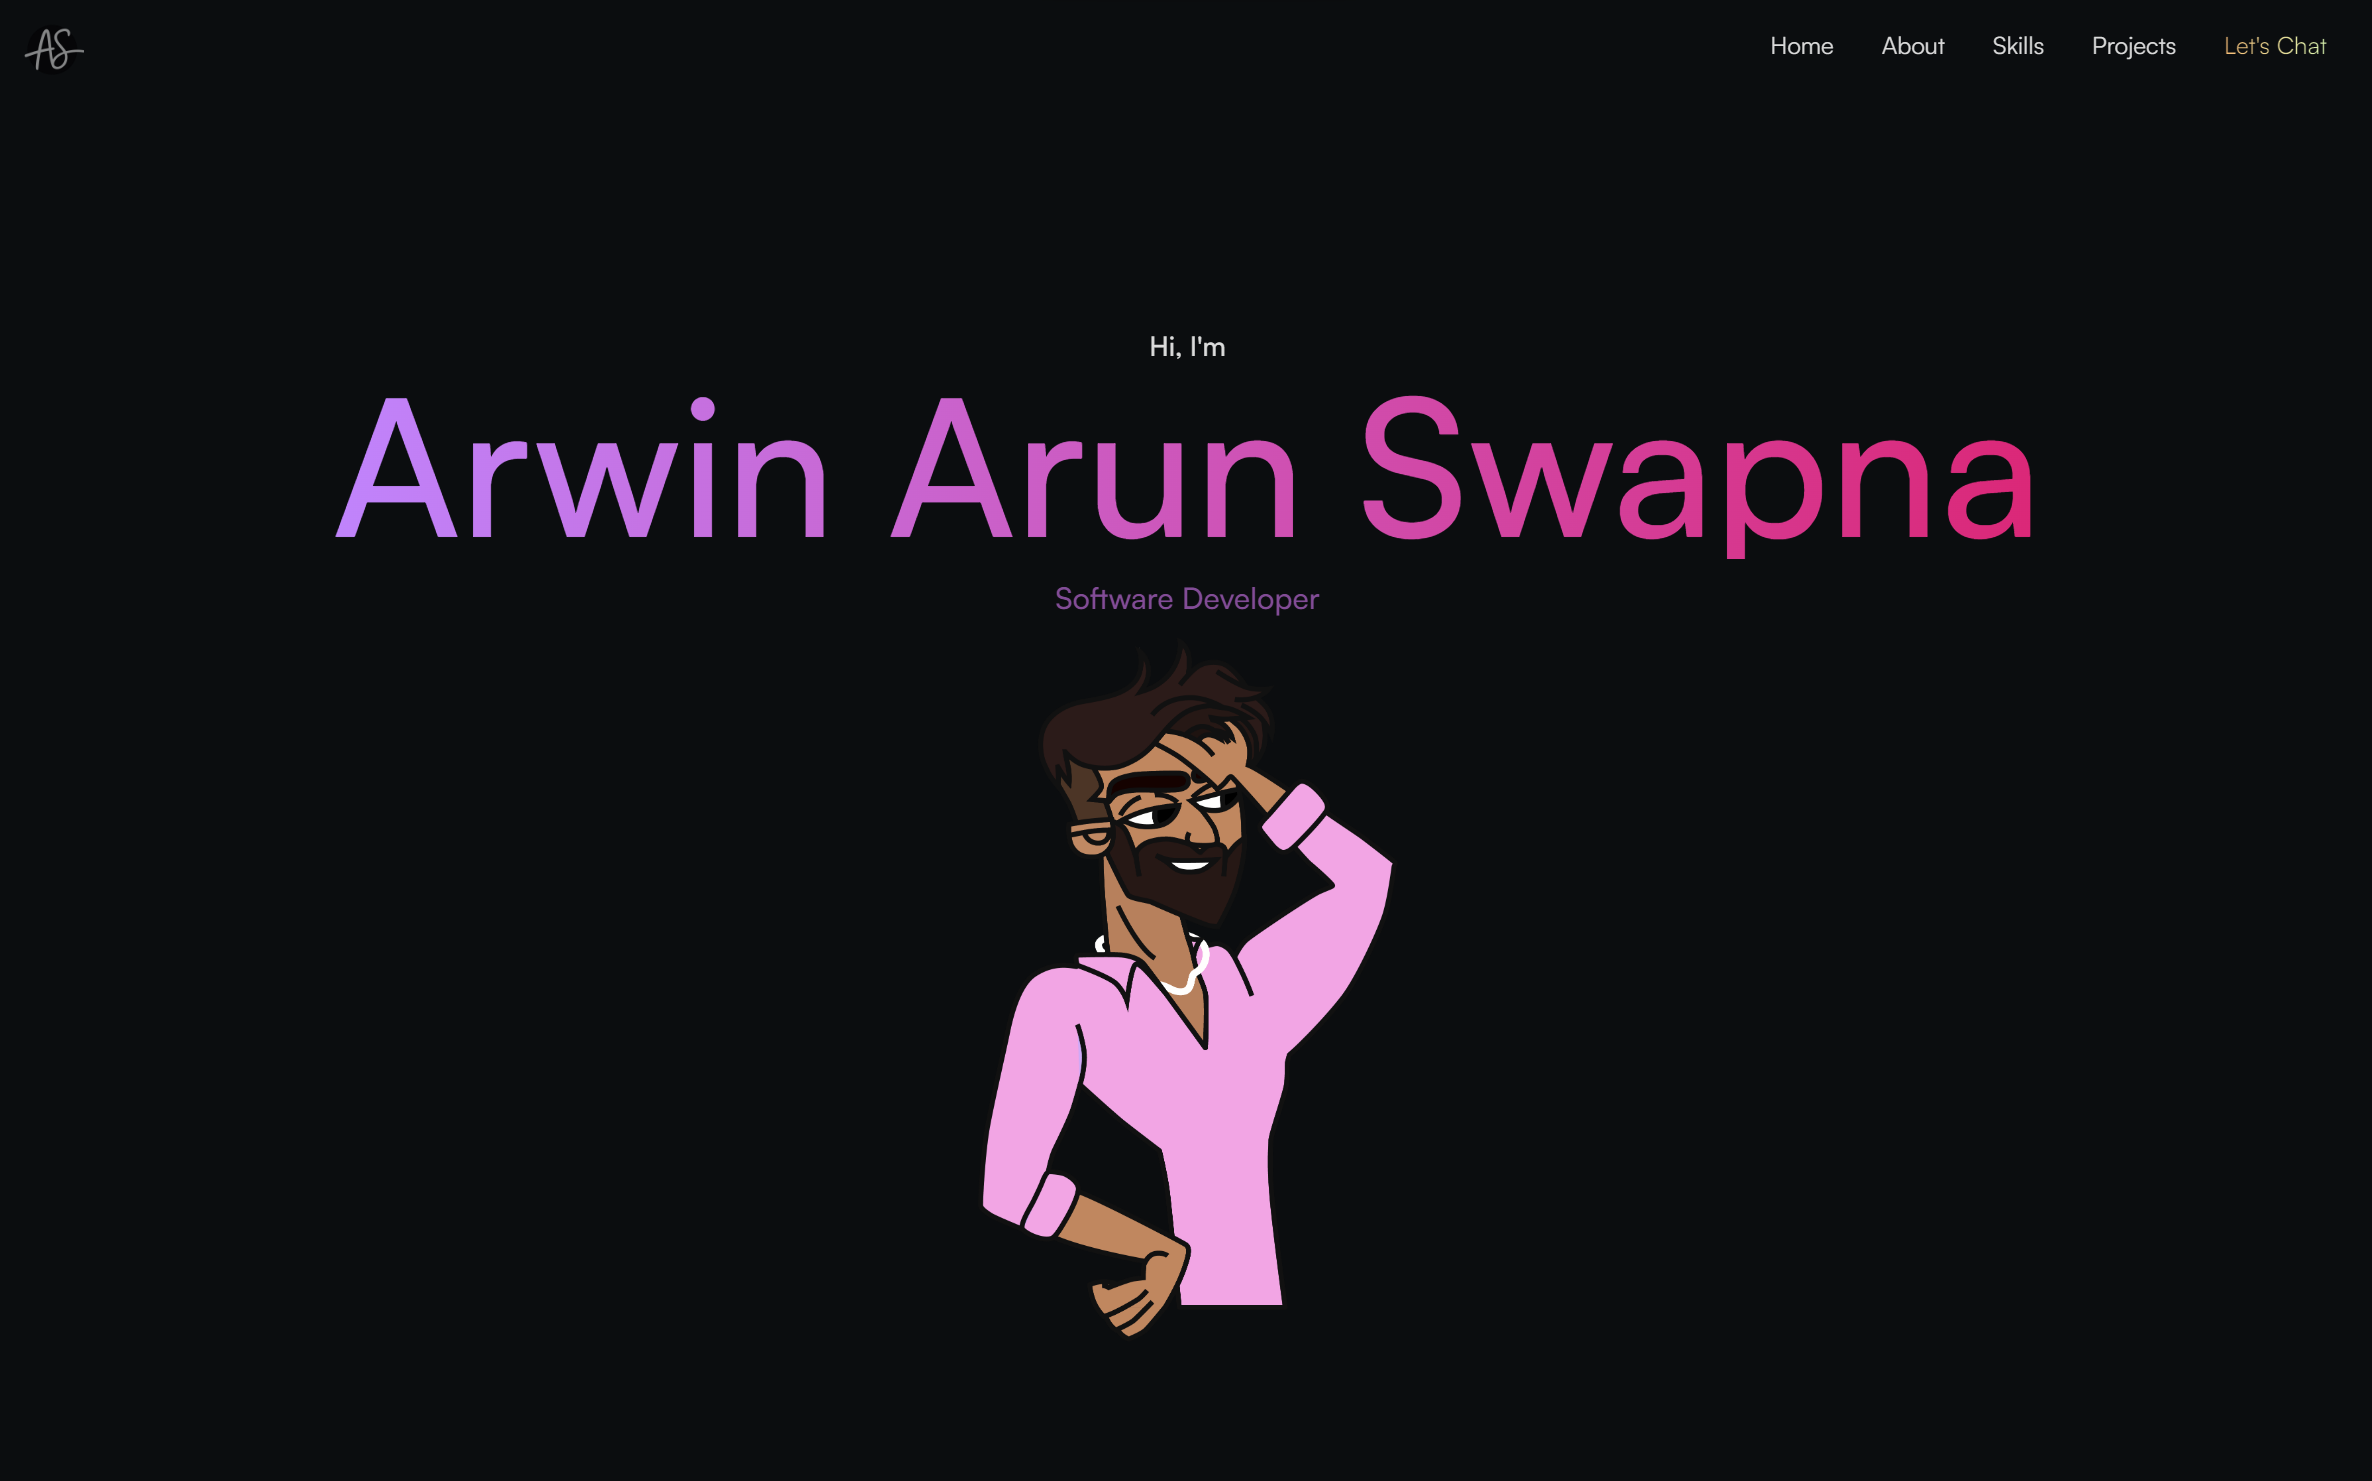
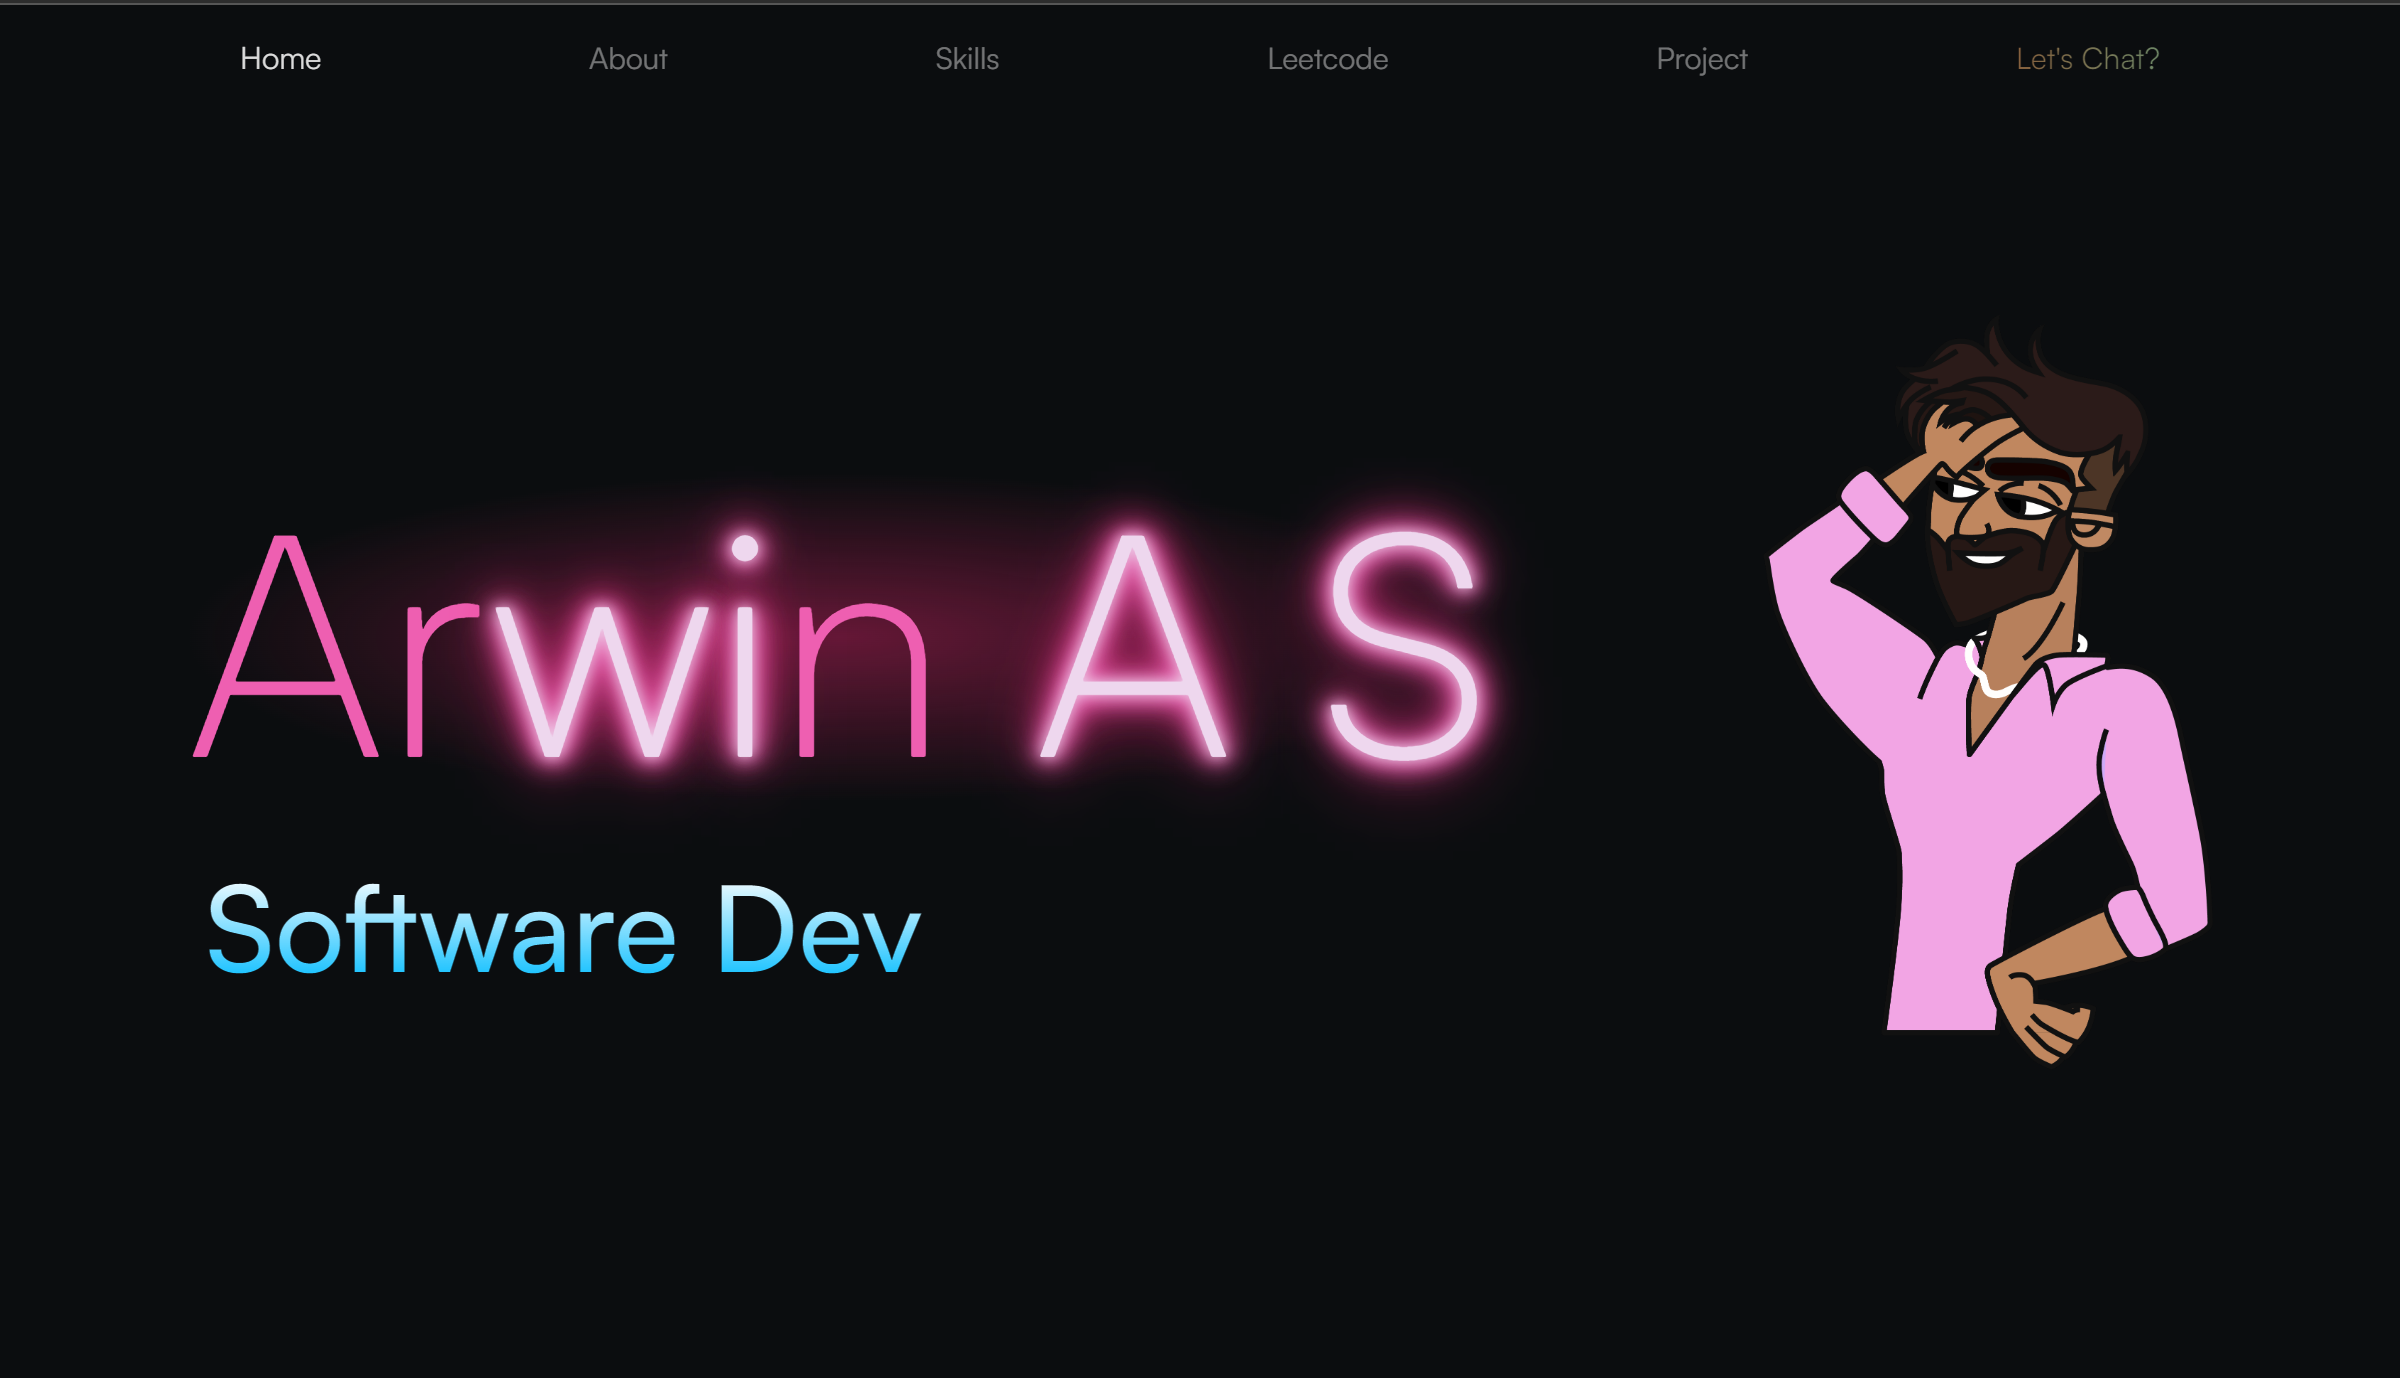
template

Changed region(s): [[0.0624, 0.2496, 0.9359, 0.9049], [0.0, 0.0, 1.0, 0.0624]]

diff --git a/src/components/home/Home.jsx b/src/components/home/Home.jsx
@@ -9,11 +9,11 @@ const Home = () => {
       <div className='w-full flex justify-center'>
         <div className='w-[1350px] flex flex-col md:flex-row justify-center md:justify-between items-center'>
           <div className=''>
-            <h1 className='name w-fit text-[4.4rem] md:text-[12rem] sign'><span className='fast-flicker'>Ar</span>w<span className='flicker'>in</span> AS</h1>
+            <h1 className='name w-fit text-[5rem] md:text-[13rem] sign'><span className='fast-flicker'>Ar</span>wi<span className='flicker'>n</span> A S</h1>
             <p className='text-[2rem] md:text-[5rem] md:p-3 w-fit mx-auto md:mx-0'>Software Dev</p>
           </div>
 
-          <div className='md:p-0 p-16'>
+          <div className='md:p-0 py-2'>
             <img src={ME} width='300px' alt="" />
           </div>
         </div>

diff --git a/src/components/navigation/Navigation.jsx b/src/components/navigation/Navigation.jsx
@@ -38,7 +38,7 @@ const Navigation = () => {
         </div>
 
         <div className='px-5'>
-            <div className='nav-ham px-5 rounded-3xl border border-gray-200 shadow-md dark:bg-gray-800 dark:border-gray-700  fixed bottom-0 md:hidden flex justify-between items-center'>
+            <div className='nav-ham px-5 rounded-3xl shadow-md fixed bottom-0 md:hidden flex justify-between items-center'>
                     <IconContext.Provider value={{size: 30}}>
                         <NavLink exact='true' activeclassname='active' to='/'>
                             <FaHome/>

diff --git a/src/components/home/Home.scss b/src/components/home/Home.scss
@@ -1,6 +1,6 @@
 .home{
     h1{
-        font-weight: 500;
+        font-weight: 300;
         /*
         
         background: -webkit-linear-gradient(#eee, #333);

diff --git a/src/components/navigation/Navigation.scss b/src/components/navigation/Navigation.scss
@@ -23,6 +23,7 @@
 }
 
 .nav-ham{
+    background-color: #1f2937;
     width: 90%;
     height: 50px;
     margin-bottom: 10px;
